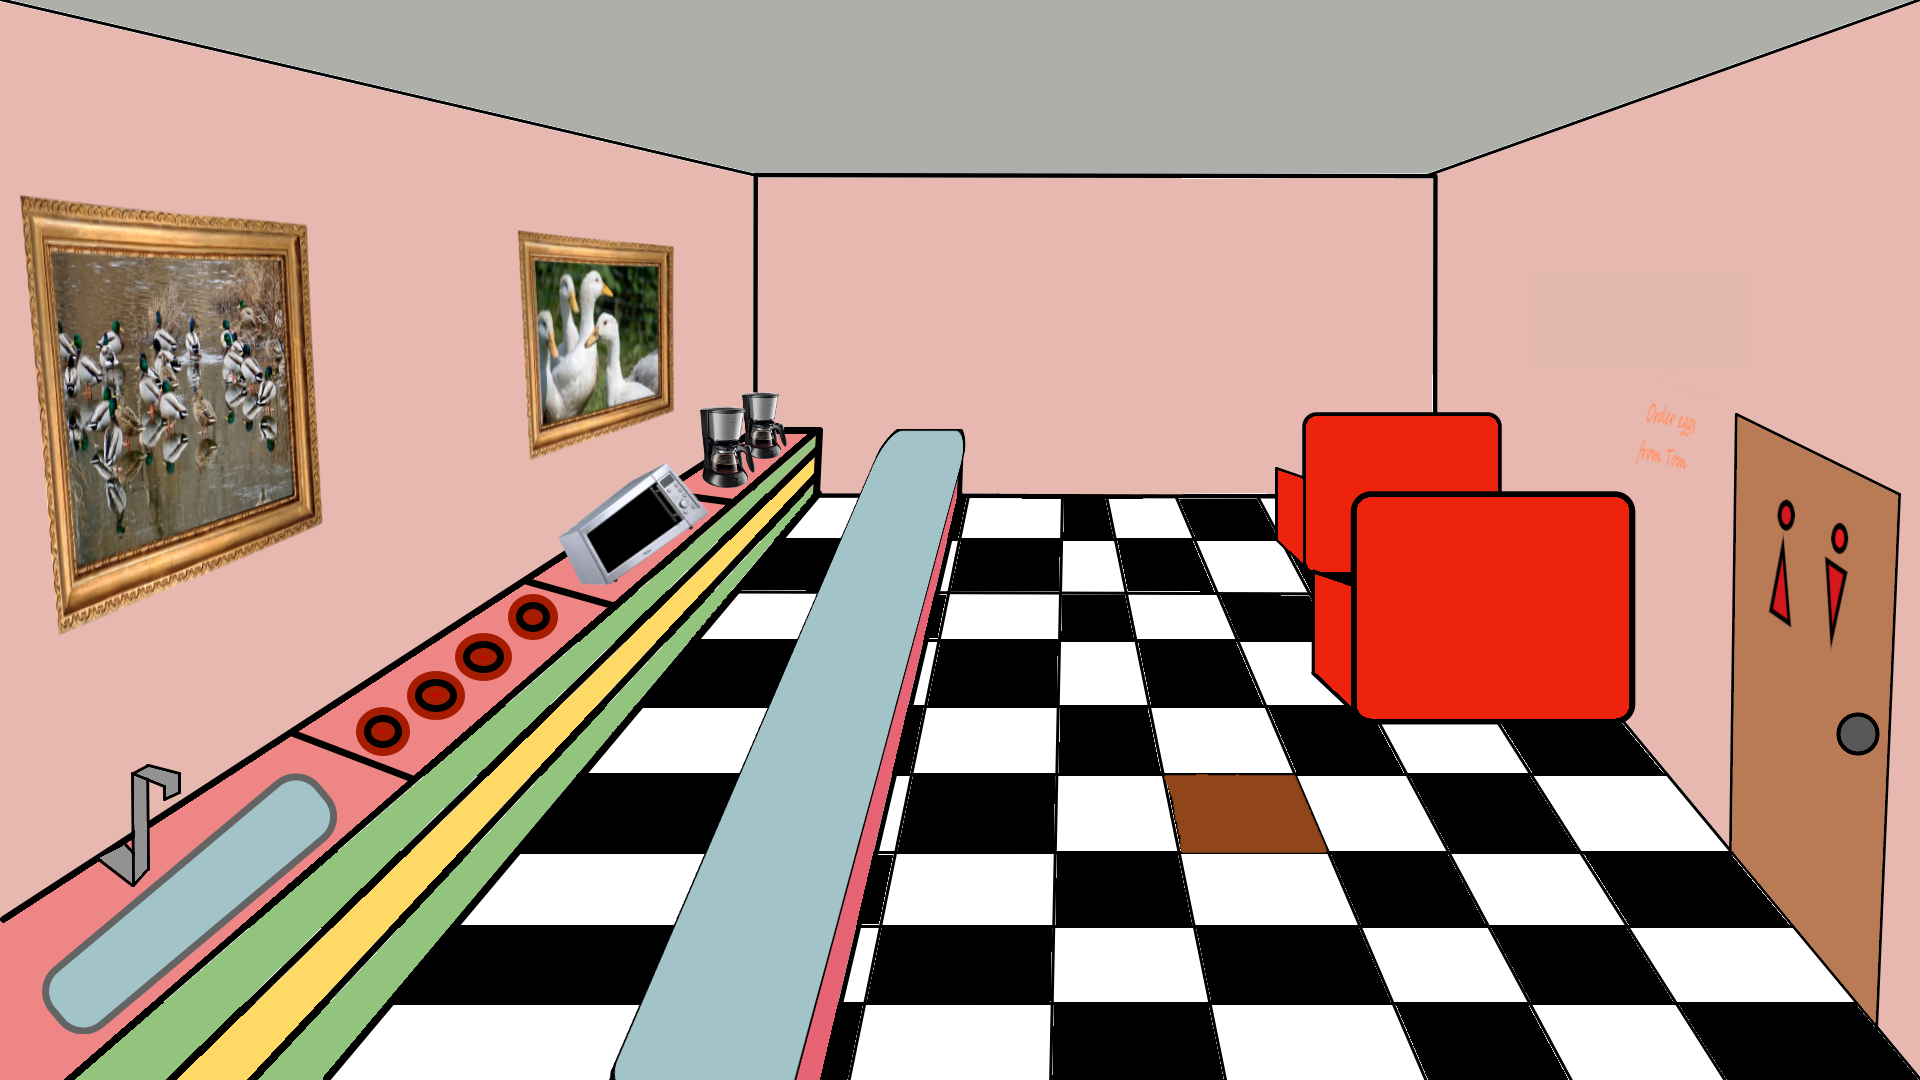
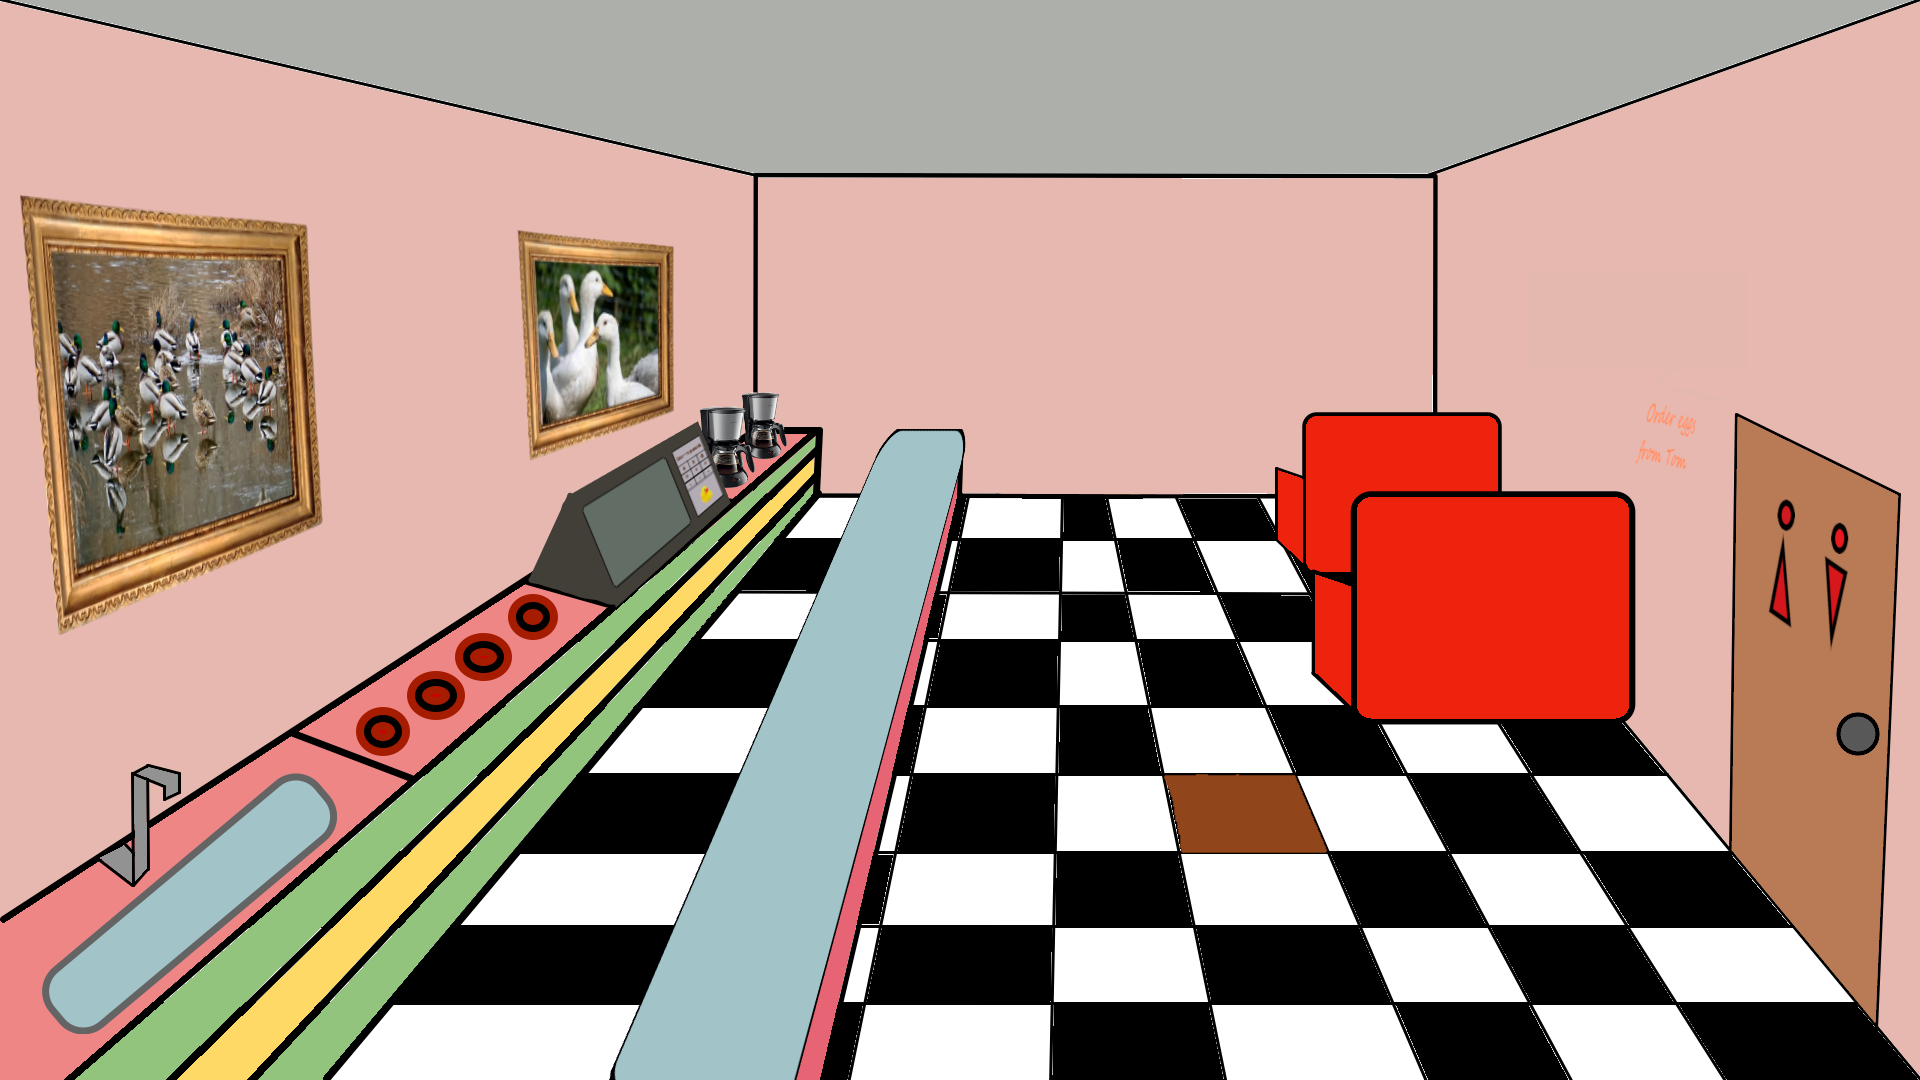
clue 4: microwave

Changed region(s): [[0.2812, 0.3972, 0.375, 0.5806]]

diff --git a/globals.py b/globals.py
@@ -4,6 +4,7 @@ import sprites.background as bg
 import sprites.scene_changer as scene_changer
 import sprites.object as object
 import sprites.robot as robot
+import sprites.buttons as btn
 
 # Pygame inits
 pygame.init()
@@ -37,14 +38,16 @@ dining4 = pygame.sprite.Group()
 bathroom = pygame.sprite.Group()
 egg_plate = pygame.sprite.Group()
 egg_note = pygame.sprite.Group()
+micro_screen = pygame.sprite.Group()
 
 # Coins
 coin1 = collectibles.Collectible(529, 351, "ronin/coin.png", "give", size=(30,30))
 coin2 = collectibles.Collectible(823, 544, "ronin/coin.png", "give", size=(30,30))
 coin3 = collectibles.Collectible(781, 391, "ronin/coin.png", "give", size=(30,30))
+coin4 = collectibles.Collectible(509, 480, "ronin/coin.png", "give", size=(60,60))
 
 # Dining1
-funky_dude = robot.Robot(589, 312, 427,290, "ronin/Funky Dude.png", dining1, dining4, size=0.25, newsize=1)
+funky_dude = robot.Robot(589, 312, 390, 290, "ronin/Funky Dude.png", dining1, dining4, size=0.25, newsize=1)
 door = object.Object(722, 271, "door.png", "door", size=(80, 119))
 frame2 = object.Object(1110,283, "ronin/painting dude.png", "inactive")
 tile = object.Object(830, 542, "tilered.png", "tile")
@@ -67,18 +70,34 @@ dining3.add(bg.Background("room zoom.png", size=(1280,720)), mannequin, scene_ch
 eggbtn = object.Object(631, 591, "ronin/order eggs.png", "eggbtn", size=(242, 124))
 eggs = object.Object(WIDTH + 200, 486, "ronin/hres plat.png", "eggs", size=(200, 30))
 # eggs = scene_changer.Scene_changer(WIDTH + 200, 304, "plate.png", dining4, egg_plate)
-dining4.add(bg.Background("Funky Dude is Literally Me.png", size=(1280,720)), funky_dude, eggs, scene_changer.Scene_changer(WIDTH//2, HEIGHT - 30, "arrow.png", dining4, dining1, rot=180, size=(50,30)))
+microwave = scene_changer.Scene_changer(680, 407, "ronin/eaking.png", dining4, micro_screen, size=(230,120))
+dining4.add(bg.Background("sa.png", size=(1280,720)), microwave, funky_dude, eggs, scene_changer.Scene_changer(WIDTH//2, HEIGHT - 30, "arrow.png", dining4, dining1, rot=180, size=(50,30)))
+
+# Microwave screen
+display = pygame.sprite.Group(bg.Background("microdisplay.png", size=(211,33), coor=(928,198)))
+btn1 = btn.Button(958, 276, "1btn.png", (40,40), "1.png", "df")
+btn2 = btn.Button(1038, 279, "2btn.png", (40,40), "2.png", "df")
+btn3 = btn.Button(1113, 279, "3btn.png", (40,40), "3.png", "df")
+btn4 = btn.Button(956, 334, "4btn.png", (40,40), "4.png", "df")
+btn5 = btn.Button(1038, 340, "5btn.png", (40,40), "5.png", "df")
+btn6 = btn.Button(1114, 334, "6btn.png", (40,40), "6.png", "df")
+btn7 = btn.Button(955, 390, "7btn.png", (40,40), "7.png", "df")
+btn8 = btn.Button(1036, 393, "8btn.png", (40,40), "8.png", "df")
+btn9 = btn.Button(1114, 392, "9btn.png", (40,40), "9.png", "df")
+btnbs = btn.Button(1114, 434, "bsbtn.png", (40,25), 0,  "df")
+btns = [btn1,btn2,btn3,btn4,btn5,btn6,btn7,btn8,btn9, btnbs]
+micro_screen.add(bg.Background("microwave.png", size=(1280,720)), display, btns, scene_changer.Scene_changer(WIDTH//2, HEIGHT - 30, "arrow.png", micro_screen, dining4, rot=180, size=(50,30)))
 
 # Eggs screen
 plate = scene_changer.Scene_changer(753,358, "ronin/ahahahahahahahahaahahahahahahhaha.png", egg_plate, egg_note)
 egg_plate.add(bg.Background("4 CLUE.png", size=(1280, 720)), plate, scene_changer.Scene_changer(WIDTH//2, HEIGHT - 30, "arrow.png", egg_plate, dining1, rot=180, size=(50,30)))
 
 # Flipped Eggs screen
-note = collectibles.Collectible(786, 366, "ronin/NoteREAL.png", "open", size=(350, 450), rot=0)
+note = collectibles.Collectible(786, 366, "ronin/weojfewofjewf.png", "open", size=(350, 450), rot=0)
 egg_note.add(bg.Background("Empty Plage.png", size=(1280, 720)), note, scene_changer.Scene_changer(WIDTH//2, HEIGHT - 30, "arrow.png", egg_note, dining1, rot=180, size=(50,30)))
 on_screen = pygame.sprite.Group()
 hoverable = pygame.sprite.Group()
-hover_types = [object.Object, collectibles.Collectible, scene_changer.Scene_changer, robot.Robot]
+hover_types = [object.Object, collectibles.Collectible, scene_changer.Scene_changer, robot.Robot, btn.Button]
 
 def load_screen(unload: pygame.sprite.Group, load: pygame.sprite.Group):
     on_screen.remove(unload)

diff --git a/sprites/buttons.py b/sprites/buttons.py
@@ -1,0 +1,67 @@
+import pygame
+import time
+import globals as g
+
+class Button(pygame.sprite.Sprite):
+    count = 0
+    cyorjude = []
+    def __init__(self, cx, cy, img, size, disp, dispG):
+        super().__init__()
+        # Set up
+        self.image = pygame.image.load(f"assets/graphics/{img}")
+        self.image = pygame.transform.scale(self.image, size)
+        self.rect = self.image.get_rect()
+        self.rect.centerx = cx
+        self.rect.centery = cy
+        
+        # Object's variables
+        if not disp:
+            self.bs = True
+            self.img = None
+            self.displays = []
+        else:
+            self.img = pygame.image.load(f"assets/graphics/ronin/{disp}")
+            self.img = pygame.transform.scale(self.img, (22,22))
+            self.displays = []
+            self.bs = False
+    
+    def update(self):
+        self.is_clicked()
+        self.display()
+
+    def is_clicked(self):
+        mouse = pygame.mouse.get_pos()
+        clicked = pygame.mouse.get_pressed()[0]
+        if clicked and self.rect.collidepoint(mouse):
+            if self.bs:
+                Button.delete()
+                time.sleep(0.25)
+            else:
+                if Button.count < 4:
+                    self.displays.append(Button.calc_pos())
+                    Button.count += 1
+                    Button.cyorjude.append(self)
+                    Button.check()
+                    time.sleep(0.25)
+
+    def display(self):
+        for d in self.displays:
+            g.SCREEN.blit(self.img, d)
+
+    def calc_pos():
+        y = 204
+        x = 951 + Button.count * 46
+        return (x,y)
+        
+    def delete():
+        if  Button.count >= 1:
+            Button.count -= 1
+            btn = Button.cyorjude.pop()
+            btn.displays.pop()
+            print(btn)
+
+    def check():
+        correct = [g.btn9, g.btn4, g.btn2, g.btn8]
+        if Button.cyorjude == correct and not g.clue4:
+            g.clue4 = True
+            g.coin4.add(g.micro_screen, g.on_screen)

diff --git a/sprites/collectibles.py b/sprites/collectibles.py
@@ -23,6 +23,7 @@ class Collectible(pygame.sprite.Sprite):
         self.collected = False
         self.counter = 0
         self.bounce_dir = 1
+        self.bp_pos = None
 
         self.open = open_type
         self.following = False
@@ -60,9 +61,13 @@ class Collectible(pygame.sprite.Sprite):
     def collect(self):
         self.image = pygame.transform.scale(self.image, (25,25))
         self.rect = self.image.get_rect()
-        self.rect.center = Collectible.calc_pos()
-        self.rect.centerx += g.bp_rect.x
-        self.rect.centery += g.bp_rect.y
+        if not self.bp_pos:
+            self.rect.center = Collectible.calc_pos()
+            self.rect.centerx += g.bp_rect.x
+            self.rect.centery += g.bp_rect.y
+            self.bp_pos = self.rect.center
+        else:
+            self.rect.center = self.bp_pos
         self.collected = True
         self.remove(g.on_screen)
         self.add(g.backpack)

diff --git a/levels/gameplay.py b/levels/gameplay.py
@@ -38,8 +38,8 @@ async def game():
         # Draw
         g.SCREEN.fill((255,255,255))
 
-        g.on_screen.update()
         g.on_screen.draw(g.SCREEN)
+        g.on_screen.update()
         
         g.backpack.update()
         g.backpack.draw(g.SCREEN)
